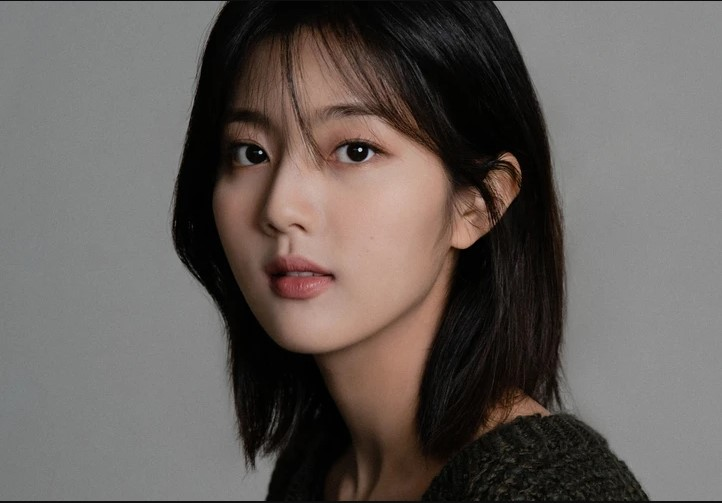
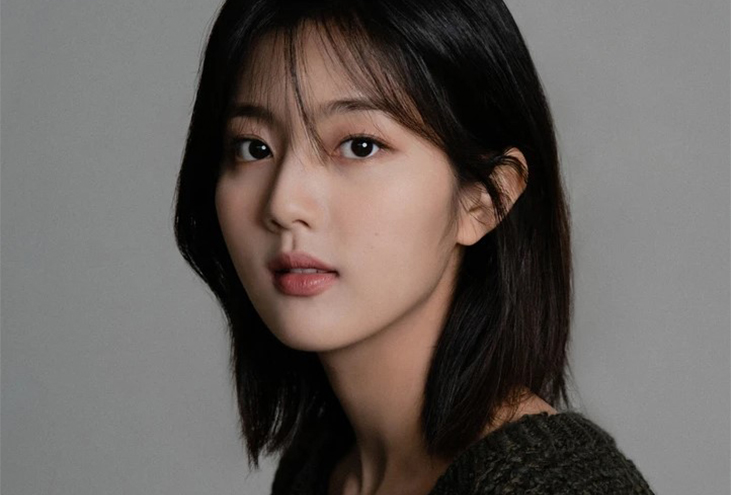
artist card 사진 수정완료

diff --git a/index.html b/index.html
@@ -88,9 +88,7 @@
                             <dl>
                                 <dt>강훈</dt>
                                 <dd class="card_plus">
-                                    <figure>
-                                        <a href="#"><img src="img/plus.jpg" alt="" /></a>
-                                    </figure>
+                                    <a href="#"><img src="img/plus.jpg" alt="" /></a>
                                 </dd>
                             </dl>
                         </div>
